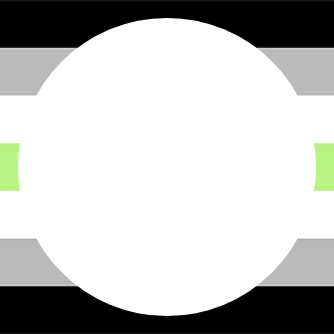
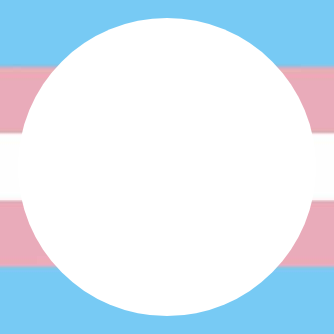
update sem emojis

diff --git a/bot/commands/images/selectFlag.js b/bot/commands/images/selectFlag.js
@@ -1,0 +1,63 @@
+module.exports = {
+    name: 'flag',
+    aliases: ['bandeira', 'lgbt', 'bandeiras', 'flags', 'decoração'],
+    code: `
+    $reply
+    Escolha sua bandeira para sua foto de perfil.
+    $attachCanvas[flagAvatar]
+    $drawImage[flagAvatar;$nonEscape[https://raw.githubusercontent.com/Layl4Martinez/ProjetoPraTentarSairDaRotina/refs/heads/main/resource/images/flagRoundedImages/flag1.png];0;0;334;334]
+    $drawImage[flagAvatar;$nonEscape[$get[imgSource]];0;0;334;334]
+    $createCanvas[flagAvatar;334;334]
+    $addSelectMenu[1;string;flagSelection;Escolha sua Bandeira;1;1;false;$get[f] Homossexual e LGBT:Sentir atração pessoas do mesmo sexo ou gênero.:$messageID_$authorID_1:true:1253758224688091156;$get[f] Bissexual:Sentir atração por mais de um gênero.:$messageID_$authorID_2:false:1253757958450315416;$get[f] Transgênero (Trans):Não se identifica com o gênero que lhe foi atribuído.:$messageID_$authorID_3:false:1253757958450315416;$get[f] Não Binário:Não se identifica como 100% homem ou mulher.:$messageID_$authorID_4:false:1253757958450315416;$get[f] Assexual:Pouca ou nenhuma atração sexual por outras pessoas.:$messageID_$authorID_5:false:1253757958450315416;$get[f] Pansexual:Sente atração por qualquer identidade de gênero.:$messageID_$authorID_6:false:1253757958450315416;$get[f] Lésbica:Mulheres que se relacionam sexual com outras mulheres.:$messageID_$authorID_7:false:1253757958450315416;$get[f] Genderqueer:Identifica como homem e mulher ou não se identifica com gênero algum:$messageID_$authorID_8:false:1253757958450315416;$get[f] Arromântico:Não sente interesse romântico por outras pessoas.:$messageID_$authorID_9:false:1253757958450315416]
+    $setMessageVar[flagImageSourceURL;$get[imgSource];$messageID;messageVar]
+    $let[imgSource;$userAvatar[$findUser[$message[1]]]]
+    $clientTyping
+    $let[f;Orgulho]
+    `
+}
+
+/*
+$get[f] LGBT:A bandeira arco-íris original, Com 6 cores representando a diversidade.:selectFlag_$messageID_1:true:1253758224688091156;$get[f] Bissexual:2 bandeira:andAnotherCustomID:true:1253757958450315416
+
+$addSelectMenu[index;type;customId;placeHolder;minValues;maxValues;disabled?;label:description:value:default?:emoji?;...]
+
+$addSelectMenu[1;string;yourCustomID;This is a placeholder!;1;1;false;A Option:Description of option A:anotherCustomID:false;B Option:Description of option B:andAnotherCustomID:true]
+
+$addSelectMenu[1;string;sF]
+
+$addSelectMenu[1;string;yourCustomID;This is a placeholder!;1;1;false;$get[f] Homossexual e LGBT:Sentir atração física, emocional ou estética por outras pessoas do mesmo sexo ou gênero.:$messageID_1:true:1253758224688091156;$get[f] Bissexual:Sentir atração sexual, emocional ou romântica por mais de um gênero.:$messageID_2:false:1253757958450315416;$get[f] Transgênero (Trans):Pessoa que não se identifica com o gênero que lhe foi atribuído no nascimento.:$messageID_3:false:1253757958450315416;$get[f] Não Binário:não se identifica como 100% homem ou mulher.:$messageID_4:false:1253757958450315416;$get[f] Assexual:Pouca ou nenhuma atração sexual por outras pessoas, independentemente do gênero.:$messageID_5:false:1253757958450315416;$get[f] Pansexual:Sente atração por pessoas de qualquer identidade de gênero, ou não determinada por gênero.:$messageID_6:false:1253757958450315416;$get[f] Lésbica:Mulheres que se identificam como mulheres e se relacionam sexual e afetivamente com outras mulheres.:$messageID_7:false:1253757958450315416;$get[f] Genderqueer:Identifica-se como homem e mulher ou não se identificam com gênero algum:$messageID_8:false:1253757958450315416;$get[f] Arromântico:Pessoas que não sentem interesse romântico por outras pessoas:$messageID_9:false:1253757958450315416]
+
+
+$get[f] LGBT:A bandeira arco-íris original.:$messageID_1:true:1253758224688091156;
+    $get[f] Bissexual:descrição:$messageID_2:false:1253757958450315416;
+    $get[f] Transgênero:descrição:$messageID_2:false:1253757958450315416;
+    $get[f] Não Binário:descrição:$messageID_2:false:1253757958450315416;
+    $get[f] Assexual:descrição:$messageID_2:false:1253757958450315416;
+    $get[f] Pansexual:descrição:$messageID_2:false:1253757958450315416;
+    $get[f] Lésbico:descrição:$messageID_2:false:1253757958450315416;
+    $get[f] Genderqueer:descrição:$messageID_2:false:1253757958450315416;
+    $get[f] Arromântico:Pessoas que não sentem interesse romântico por outras pessoas:$messageID_2:false:1253757958450315416;
+
+
+
+
+
+
+    $addSelectMenu[1;string;flagSelection;Escolha sua Bandeira;1;1;false;
+
+    $get[f] Homossexual e LGBT:Sentir atração pessoas do mesmo sexo ou gênero.:
+    $get[f] Bissexual:Sentir atração por mais de um gênero.:
+    $get[f] Transgênero (Trans):Não se identifica com o gênero que lhe foi atribuído.:
+    $get[f] Não Binário:Não se identifica como 100% homem ou mulher.:
+    $get[f] Assexual:Pouca ou nenhuma atração sexual por outras pessoas.:
+    $get[f] Pansexual:Sente atração por qualquer identidade de gênero.:
+    $get[f] Lésbica:Mulheres que se relacionam sexual com outras mulheres.:
+    $get[f] Genderqueer:Identifica como homem e mulher ou não se identifica com gênero algum:
+    $get[f] Arromântico:Não sente interesse romântico por outras pessoas.:
+
+
+
+    $get[f] Homossexual e LGBT:Sentir atração pessoas do mesmo sexo ou gênero.:$messageID_$authorID_1:true:1253758224688091156;$get[f] Bissexual:Sentir atração por mais de um gênero.:$messageID_$authorID_2:false:1253757958450315416;$get[f] Transgênero (Trans):Não se identifica com o gênero que lhe foi atribuído.:$messageID_$authorID_3:false:1253757958450315416;$get[f] Não Binário:Não se identifica como 100% homem ou mulher.:$messageID_$authorID_4:false:1253757958450315416;$get[f] Assexual:Pouca ou nenhuma atração sexual por outras pessoas.:$messageID_$authorID_5:false:1253757958450315416;$get[f] Pansexual:Sente atração por qualquer identidade de gênero.:$messageID_$authorID_6:false:1253757958450315416;$get[f] Lésbica:Mulheres que se relacionam sexual com outras mulheres.:$messageID_$authorID_7:false:1253757958450315416;$get[f] Genderqueer:Identifica como homem e mulher ou não se identifica com gênero algum:$messageID_$authorID_8:false:1253757958450315416;$get[f] Arromântico:Não sente interesse romântico por outras pessoas.:$messageID_$authorID_9:false:1253757958450315416]
+
+
+*/

diff --git a/bot/commands/images/selectMenu.js b/bot/commands/images/selectMenu.js
@@ -1,0 +1,61 @@
+module.exports = {
+    name: 'flagSelection',
+    type: "interaction",
+    prototype: "selectMenu",
+    code: `
+    $interactionDelete
+    $reply[$get[messageID]]
+    Escolha sua bandeira para sua foto de perfil.
+    $attachCanvas[flagAvatar]
+    $addSelectMenu[1;string;flagSelection;Escolha sua Bandeira;1;1;false;$get[f] Homossexual e LGBT:Sentir atração pessoas do mesmo sexo ou gênero.:$get[messageID]_$authorID_1:$if[$get[flagID]==1;true;false]:1253758224688091156;$get[f] Bissexual:Sentir atração por mais de um gênero.:$get[messageID]_$authorID_2:$if[$get[flagID]==2;true;false]:1253757958450315416;$get[f] Transgênero (Trans):Não se identifica com o gênero que lhe foi atribuído.:$get[messageID]_$authorID_3:$if[$get[flagID]==3;true;false]:1253757958450315416;$get[f] Não Binário:Não se identifica como 100% homem ou mulher.:$get[messageID]_$authorID_4:$if[$get[flagID]==4;true;false]:1253757958450315416;$get[f] Assexual:Pouca ou nenhuma atração sexual por outras pessoas.:$get[messageID]_$authorID_5:$if[$get[flagID]==5;true;false]:1253757958450315416;$get[f] Pansexual:Sente atração por qualquer identidade de gênero.:$get[messageID]_$authorID_6:$if[$get[flagID]==6;true;false]:1253757958450315416;$get[f] Lésbica:Mulheres que se relacionam sexual com outras mulheres.:$get[messageID]_$authorID_7:$if[$get[flagID]==7;true;false]:1253757958450315416;$get[f] Genderqueer:Identifica como homem e mulher ou não se identifica com gênero algum:$get[messageID]_$authorID_8:$if[$get[flagID]==8;true;false]:1253757958450315416;$get[f] Arromântico:Não sente interesse romântico por outras pessoas.:$get[messageID]_$authorID_9:$if[$get[flagID]==9;true;false]:1253757958450315416]
+    $drawImage[flagAvatar;$nonEscape[https://raw.githubusercontent.com/Layl4Martinez/ProjetoPraTentarSairDaRotina/refs/heads/main/resource/images/flagRoundedImages/flag$get[flagID].png];0;0;334;334]
+    $drawImage[flagAvatar;$nonEscape[$get[imgSource]];0;0;334;334]
+    $createCanvas[flagAvatar;334;334]
+    $let[f;Orgulho]
+    $let[imgSource;$getMessageVar[flagImageSourceURL;$get[messageID];messageVar]]
+    $let[flagID;$splitText[3]]
+    $let[userID;$splitText[2]]
+    $let[messageID;$splitText[1]]
+    $textSplit[$interactionData[values[0]];_]
+    $interactionUpdate[carregando...]
+    `
+}
+/*  
+$reply[$get[messageID]]
+$let[f;Orgulho]
+    $attachCanvas[flagAvatar]
+    
+    $interactionDelete
+    $drawImage[flagAvatar;$nonEscape[https://raw.githubusercontent.com/Layl4Martinez/ProjetoPraTentarSairDaRotina/refs/heads/main/resource/images/flagRoundedImages/flag$get[flagID].png];0;0;334;334]
+    $drawImage[flagAvatar;$nonEscape[$get[imgSource]];0;0;334;334]
+    $createCanvas[flagAvatar;334;334]
+
+    $let[imgSource;$getMessageVar[flagImageSourceURL;$get[messageID];messageVar]]
+    
+    $let[flagID;$splitText[3]]
+    $let[userID;$splitText[2]]
+    $let[messageID;$splitText[1]]
+    $textSplit[$interactionData[values[0]];_]
+    $interactionUpdate[carregando...]
+
+
+
+
+
+
+
+    $addSelectMenu[1;string;flagSelection;Escolha sua Bandeira;1;1;false;
+    $get[f] Homossexual e LGBT:Sentir atração pessoas do mesmo sexo ou gênero.:$get[messageID]_$authorID_1:$if[$get[flagID]==1;true;false]:1253758224688091156;
+    $get[f] Bissexual:Sentir atração por mais de um gênero.:$get[messageID]_$authorID_2:$if[$get[flagID]==2;true;false]:1253757958450315416;
+    $get[f] Transgênero (Trans):Não se identifica com o gênero que lhe foi atribuído.:$get[messageID]_$authorID_3:$if[$get[flagID]==3;true;false]:1253757958450315416;
+    $get[f] Não Binário:Não se identifica como 100% homem ou mulher.:$get[messageID]_$authorID_4:$if[$get[flagID]==4;true;false]:1253757958450315416;
+    $get[f] Assexual:Pouca ou nenhuma atração sexual por outras pessoas.:$get[messageID]_$authorID_5:$if[$get[flagID]==5;true;false]:1253757958450315416;
+    $get[f] Pansexual:Sente atração por qualquer identidade de gênero.:$get[messageID]_$authorID_6:$if[$get[flagID]==6;true;false]:1253757958450315416;
+    $get[f] Lésbica:Mulheres que se relacionam sexual com outras mulheres.:$get[messageID]_$authorID_7:$if[$get[flagID]==7;true;false]:1253757958450315416;
+    $get[f] Genderqueer:Identifica como homem e mulher ou não se identifica com gênero algum:$get[messageID]_$authorID_8:$if[$get[flagID]==8;true;false]:1253757958450315416;
+    $get[f] Arromântico:Não sente interesse romântico por outras pessoas.:$get[messageID]_$authorID_9:$if[$get[flagID]==9;true;false]
+
+
+    $addSelectMenu[1;string;flagSelection;Escolha sua Bandeira;1;1;false;$get[f] Homossexual e LGBT:Sentir atração pessoas do mesmo sexo ou gênero.:$get[messageID]_$authorID_1:$if[$get[flagID]==1;true;false]:1253758224688091156;$get[f] Bissexual:Sentir atração por mais de um gênero.:$get[messageID]_$authorID_2:$if[$get[flagID]==2;true;false]:1253757958450315416;$get[f] Transgênero (Trans):Não se identifica com o gênero que lhe foi atribuído.:$get[messageID]_$authorID_3:$if[$get[flagID]==3;true;false]:1253757958450315416;$get[f] Não Binário:Não se identifica como 100% homem ou mulher.:$get[messageID]_$authorID_4:$if[$get[flagID]==4;true;false]:1253757958450315416;$get[f] Assexual:Pouca ou nenhuma atração sexual por outras pessoas.:$get[messageID]_$authorID_5:$if[$get[flagID]==5;true;false]:1253757958450315416;$get[f] Pansexual:Sente atração por qualquer identidade de gênero.:$get[messageID]_$authorID_6:$if[$get[flagID]==6;true;false]:1253757958450315416;$get[f] Lésbica:Mulheres que se relacionam sexual com outras mulheres.:$get[messageID]_$authorID_7:$if[$get[flagID]==7;true;false]:1253757958450315416;$get[f] Genderqueer:Identifica como homem e mulher ou não se identifica com gênero algum:$get[messageID]_$authorID_8:$if[$get[flagID]==8;true;false]:1253757958450315416;$get[f] Arromântico:Não sente interesse romântico por outras pessoas.:$get[messageID]_$authorID_9:$if[$get[flagID]==9;true;false]
+
+*/

diff --git a/bot/commands/economy/daily.js b/bot/commands/economy/daily.js
@@ -2,9 +2,10 @@ module.exports = {
     name: 'daily',
     aliases: ['diário'],
     code: `
+    $reply
     $setGlobalUserVar[coins;$get[sumValues];$authorID;user]
     $let[sumValues;$sum[$get[coins];$get[randomValue]]]
-    🪙 Você coletou $get[randomValue] moedas!\n**Volte daqui $discordTimestamp[$sum[$dateStamp;$parseTime[$get[time]]];R] pra coletar novamente!**
+    ⭐ Você coletou $get[randomValue] Estrelas!\n**Volte daqui $discordTimestamp[$sum[$dateStamp;$parseTime[$get[time]]];R] pra coletar novamente!**
     $let[coins;$getGlobalUserVar[coins;$authorID;user]]
     $let[randomValue;$random[$get[lowValue];$get[highValue]]]
   

diff --git a/bot/ownerCommands/createApplicationCommand.js b/bot/ownerCommands/createApplicationCommand.js
@@ -3,14 +3,7 @@ module.exports = {
   code: `
   $addCmdReactions[✅]
   $clearReactions[$channelID;$messageID;🕑]
-  $createApplicationCommand[global;stats;description...;true;true;slash]
-  $createApplicationCommand[global;daily;description...;true;true;slash]
-  $createApplicationCommand[global;atm;description...;true;false;slash;[{
-    "name": "usuário",
-    "description": "description...",
-    "required": false,
-    "type": 6
-}]]
+  $createApplicationCommand[global;ping;Mostra o ping atual do bot;true;true;slash]
   $addCmdReactions[🕑]
   $onlyForIDs[$clientOwnerIDs[;];❌ Acesso Negado. {reply:$messageID:true}]
   `

diff --git a/bot/ownerCommands/deleteApplicationCommand.js b/bot/ownerCommands/deleteApplicationCommand.js
@@ -3,10 +3,7 @@ module.exports = {
   code: `
   $addCmdReactions[✅]
   $clearReactions[$channelID;$messageID;🕑]
-  $deleteApplicationCommand[global;$getApplicationCommandID[stats;global]]
-  $deleteApplicationCommand[global;$getApplicationCommandID[daily;global]]
-  $deleteApplicationCommand[global;$getApplicationCommandID[imagem;global]]
-  $deleteApplicationCommand[global;$getApplicationCommandID[pix;global]]
+  $deleteApplicationCommand[global;$getApplicationCommandID[atm;global]]
   $addCmdReactions[🕑]
   $onlyForIDs[$clientOwnerIDs[;];❌ Acesso Negado. {reply:$messageID:true}]
   `

diff --git a/bot/commands/images/commandFlag.js b/bot/commands/images/commandFlag.js
@@ -1,4 +1,4 @@
-module.exports = {
+/*module.exports = {
     name: 'flag',
     aliases: ['bandeira', 'lgbt', 'bandeiras', 'flags', 'decoração'],
     code: `
@@ -15,4 +15,4 @@ module.exports = {
     $let[imgSource;$userAvatar[$findUser[$message[1]]]]
     $clientTyping
     `
-};
+};*/

diff --git a/bot/commands/economy/atm.js b/bot/commands/economy/atm.js
@@ -2,6 +2,7 @@ module.exports = {
     name: 'atm',
     aliases: ['stars'],
     code: `
+    $reply
     $if[$get[user]==$authorID;Você;<@$get[user]>] tem **$getGlobalUserVar[coins;$get[user];user] estrelas!** ⭐
     $let[user;$findMember[$message;true]]
     `

diff --git a/bot/commands/images/interactionFlagChoice.js b/bot/commands/images/interactionFlagChoice.js
@@ -1,4 +1,4 @@
-module.exports = {
+/*module.exports = {
     type: "interaction",
     prototype: "button",
     code: `
@@ -19,4 +19,4 @@ module.exports = {
     $textSplit[$interactionData[customId];_]
     $interactionUpdate[carregando...]
     `
-}
+}*/

diff --git a/bot/slashCommands/misc/ping.js b/bot/slashCommands/misc/ping.js
@@ -1,5 +1,5 @@
 module.exports = {
-    name: 'stats',
+    name: 'ping',
     type: 'interaction',
     prototype: 'slash',
     code: `
